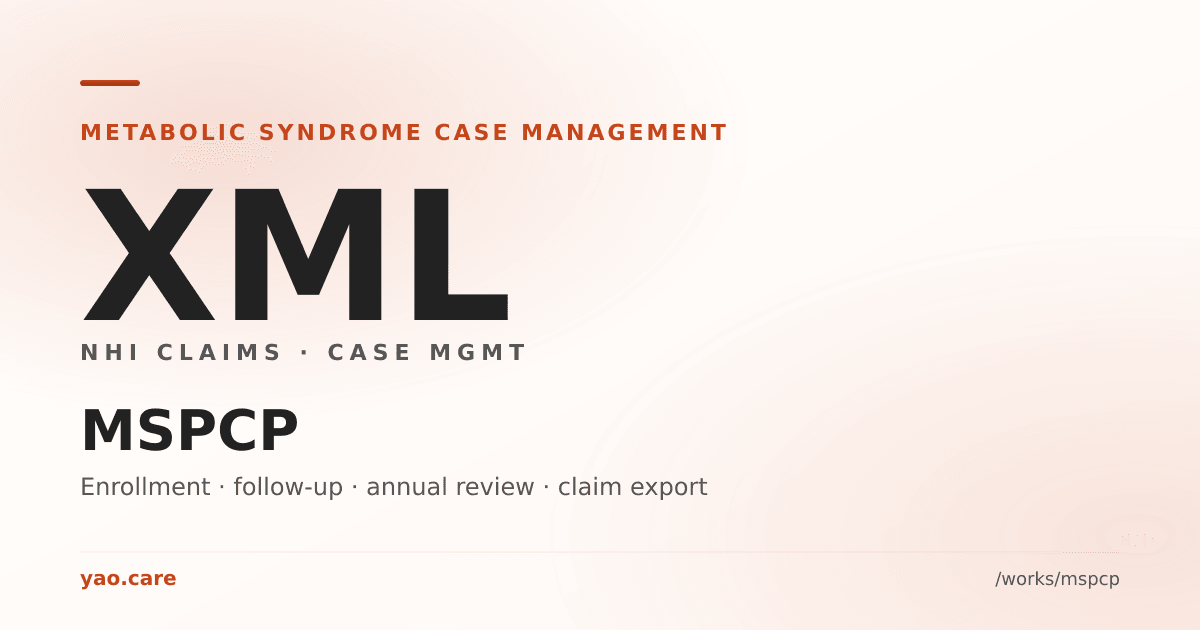
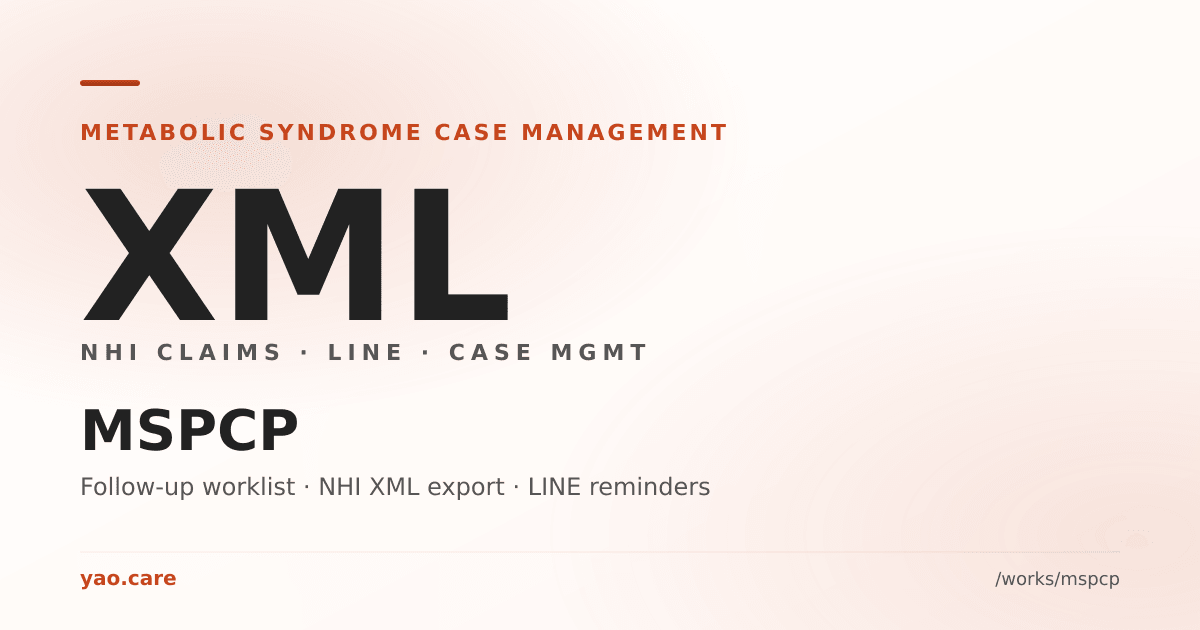
feat(medical): 依實際功能重寫 MSPCP 介紹頁
- 事實改以 mspcp 程式碼與 git log 為準（報價單項次為 07-28 狀態，之後已開發多項）
- 依使用者分區：個管師、主管追蹤成效、營養師待處理、病人 LINE 端、資訊與資安
- 補上待辦提醒、三種匯出範圍、歷程與更正、批次匯入待確認草稿、同儕位置、計畫目標、LINE 綁定／推播管理／自填回填、假名介接
- 年度評估改為第三次追蹤後滿 70 天、可循環進下一年度
- 產品卡文案與 OG 圖同步；不列院所名稱與數量，未開發項目不提

Claude-Session: https://claude.ai/code/session_01SstSUwLhBezBEA6dgU7twW

Changed region(s): [[0.0617, 0.754, 0.5858, 0.7841], [0.2775, 0.5429, 0.555, 0.573], [0.185, 0.2111, 0.2158, 0.2413]]

diff --git a/src/products.config.ts b/src/products.config.ts
@@ -326,18 +326,18 @@ export const PRODUCTS: readonly Product[] = [
     category: 'medical',
     group: 'casemgmt',
     title: 'MSPCP 代謝症候群個案管理',
-    tagline: '代謝症候群防治計畫的個案登錄與健保申報系統，個管師登打完，申報檔直接產出',
+    tagline: '代謝症候群防治計畫的個案管理系統，個管師登打、追蹤、申報在同一處，病人用 LINE 收提醒',
     description:
-      'MSPCP 是代謝症候群防治計畫的個案登錄與健保申報系統，給醫院個管師在後台使用。收案時依腰圍、血壓、飯前血糖、三酸甘油酯、高密度脂蛋白五項指標判定是否符合條件；之後的追蹤管理、年度評估與結案，都登打在同一份個案紀錄上。存檔前逐欄檢查格式與健保署跨欄位規則，申報間隔不足或追蹤次數已達上限會直接擋下，並告知最早可做的日期。每月選定年月與流水號，就能下載健保署格式的 XML 批次上傳檔。病人可用院方 LINE 官方帳號綁定，收到回診提醒、回填量測數值，由個管師確認後帶入登打。每家院所各自一個網址與資料庫，資料不互通。',
+      'MSPCP 是代謝症候群防治計畫的個案管理與健保申報系統，給醫院個管師在後台使用。收案時依腰圍、血壓、飯前血糖、三酸甘油酯、高密度脂蛋白五項指標判定是否符合條件，糖化血色素 5.7 到 6.4 另有一條收案路徑。追蹤管理、年度評估與結案登打在同一份個案紀錄上，存檔前逐欄檢查格式與健保署跨欄位規則，申報間隔不足或次數已達上限會直接擋下。待辦提醒頁列出該追蹤、該做年度評估和還沒申報的個案。申報檔可只匯出尚未申報的、指定月份或完整歷程。追蹤成效頁有全院統計、同儕位置與計畫目標。病人用院方 LINE 官方帳號綁定，收回診提醒、回填量測數值，由個管師核對後帶入登打；LINE 端只拿得到假名代號。每家院所各自一個資料庫，識別欄位加密存放。系統不做診斷。',
     alternateNames: ['MSPCP', '代謝症候群個案管理系統', '代謝症候群防治計畫個案登錄系統'],
     ogTitle: 'MSPCP',
     ogStat: 'XML',
-    ogStatLabel: 'NHI CLAIMS · CASE MGMT',
-    cardKicker: '代謝症候群防治計畫 · 健保申報',
+    ogStatLabel: 'NHI CLAIMS · LINE · CASE MGMT',
+    cardKicker: '代謝症候群防治計畫 · 健保申報 · LINE',
     cardBullets: [
-      '五項指標自動判定收案條件',
-      '追蹤間隔與年度次數上限，存檔時就檢查',
-      '產出健保署格式 XML 批次上傳檔',
+      '五項指標自動判定收案，追蹤間隔存檔時就檢查',
+      '待辦提醒與追蹤成效，該追誰、達標沒一頁看完',
+      '病人用 LINE 收提醒、回填數值，個管師核對後帶入',
     ],
     cta: { label: '來信洽詢導入', href: 'mailto:service@yao.care' },
   },
